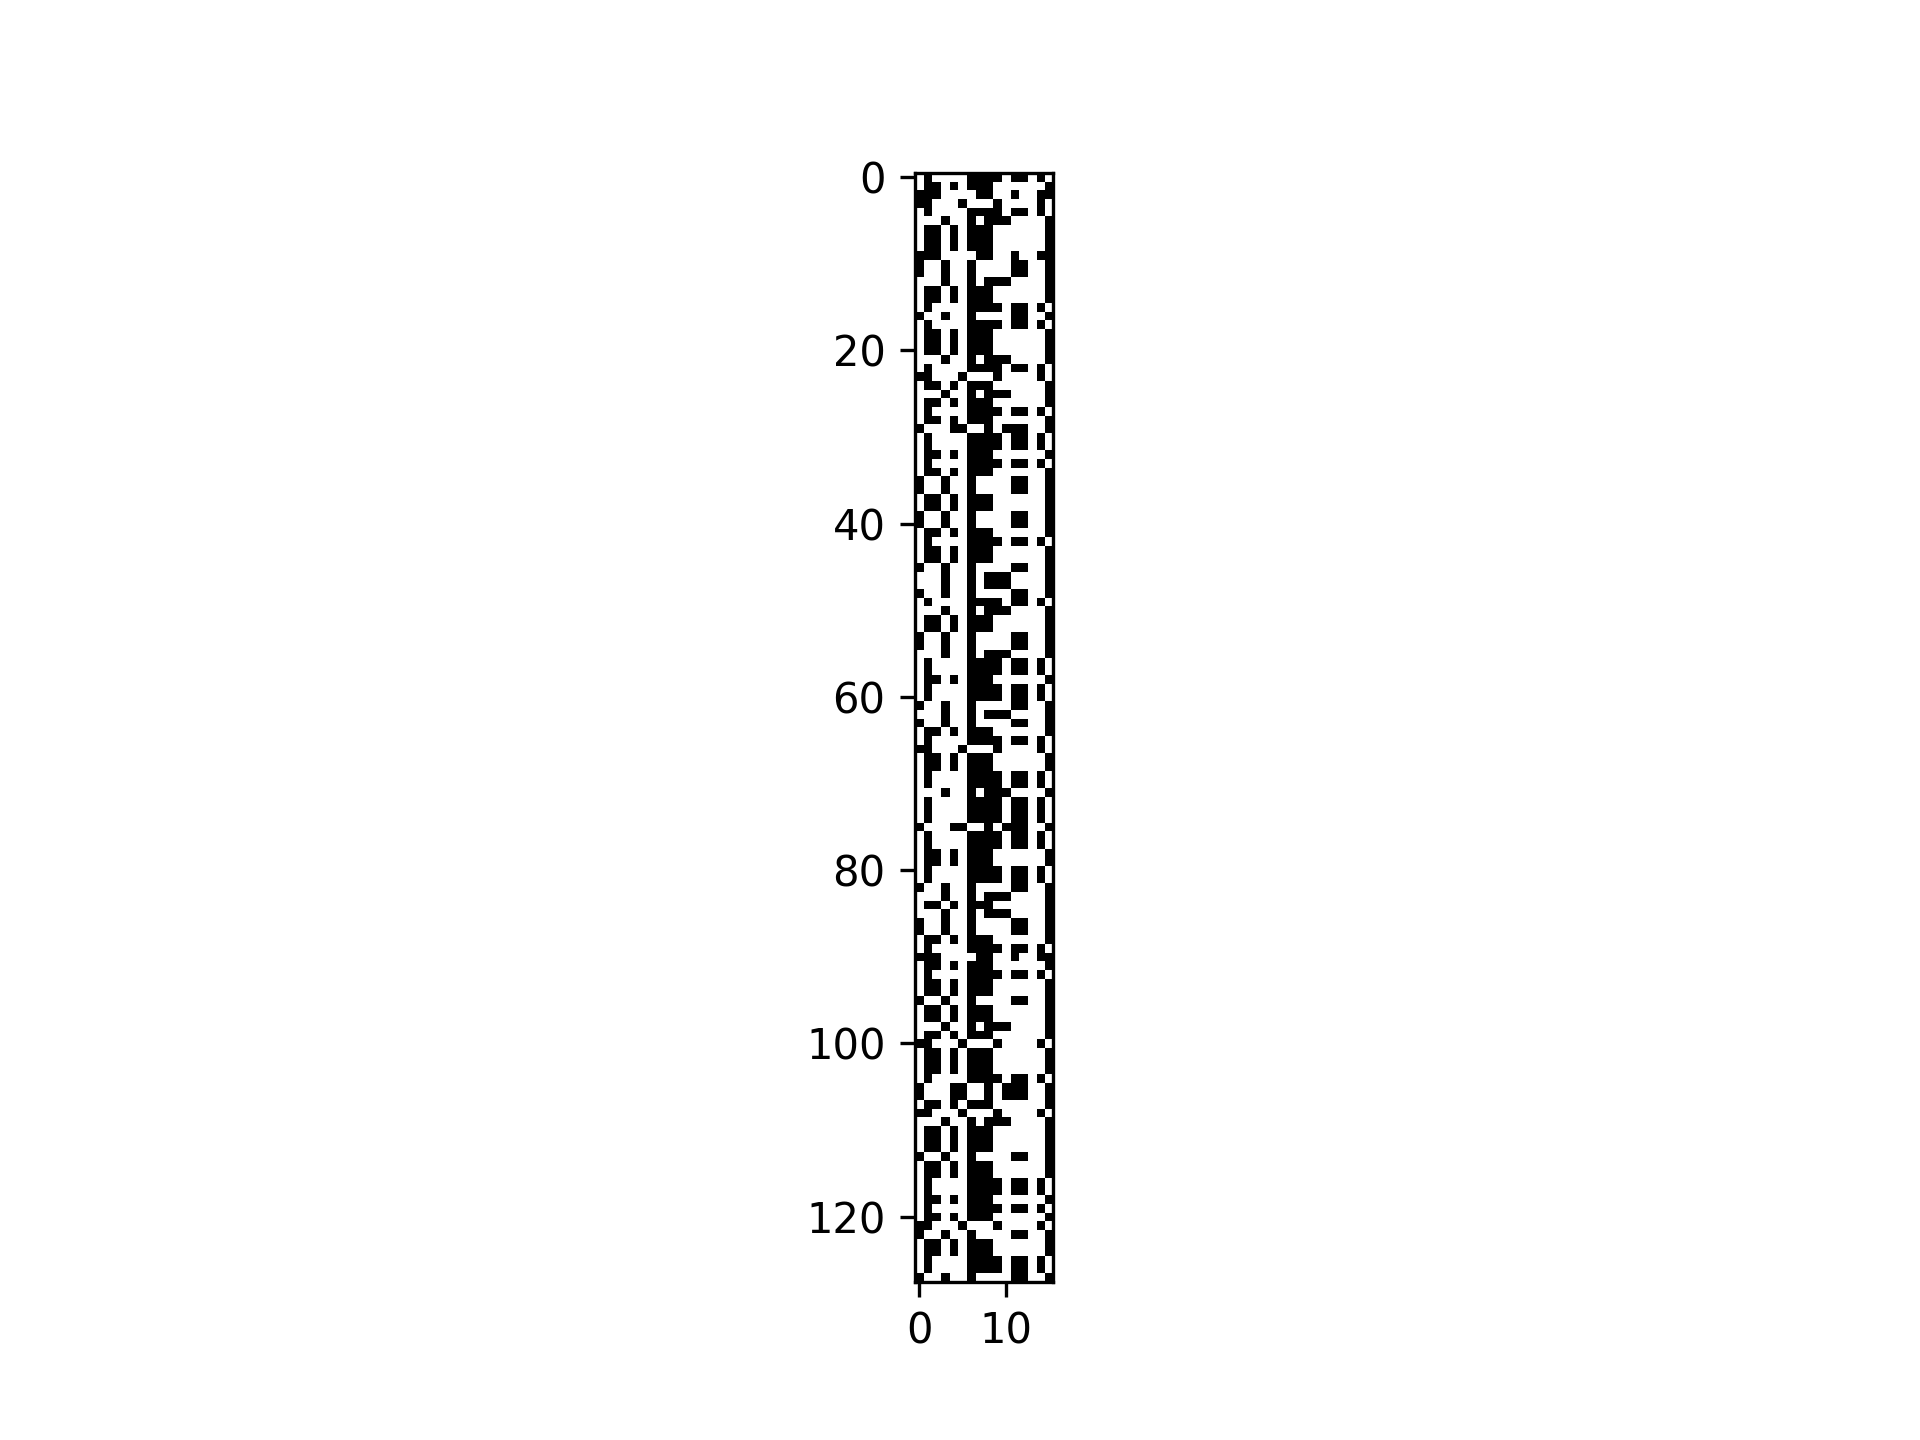
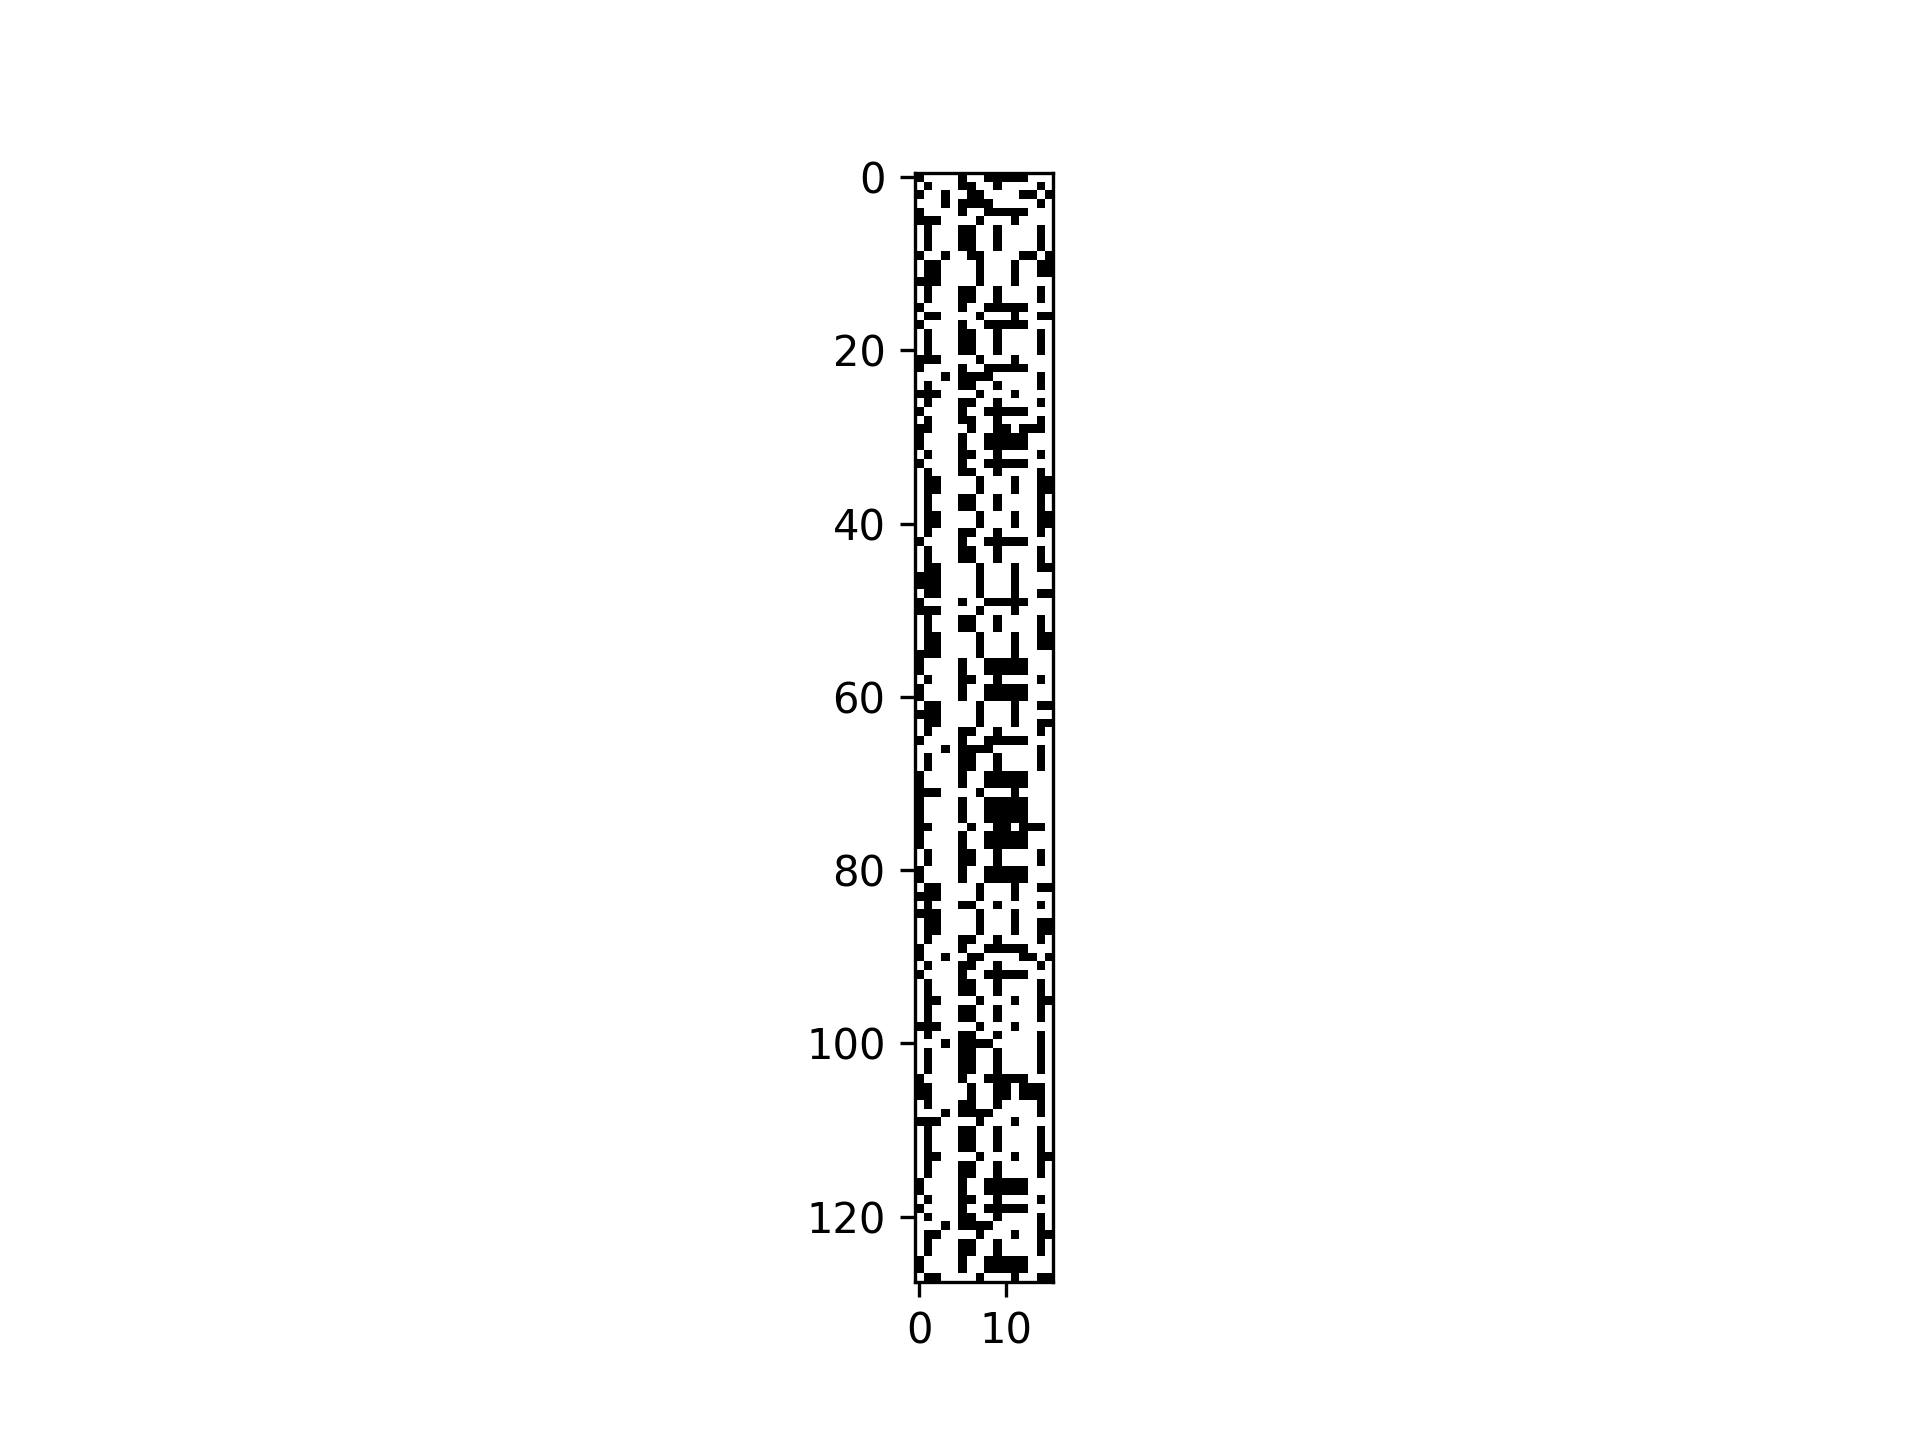
binary data analysis script

Changed region(s): [[0.4688, 0.125, 0.5625, 0.9062]]

diff --git a/binary_analysis.py b/binary_analysis.py
@@ -1,0 +1,140 @@
+'''
+Usage:
+Example python binary_analysis.py --filepath [Binary File Path] \
+--savepath [Saved Image Path] \
+--table_idx [The table index of embedding vectors] \
+--iteration [The iteration of embedding vectors] \
+--error_bound [The relative error bound] \
+--shape [(batch_size, emb_len)]
+'''
+
+import numpy as np
+import matplotlib.pyplot as plt
+import os
+import sys
+import argparse
+
+parser = argparse.ArgumentParser()
+parser.add_argument("--filepath", type=str, help="the path of binary file")
+parser.add_argument("--savepath", type=str, help="the path of saved figures")
+parser.add_argument("--table_idx", type=int, help="the index of embedding table")
+parser.add_argument("--iteration", type=int, help="the number of iteration")
+parser.add_argument("--error_bound", type=float, help="the error bound for pre-quantization and compression")
+parser.add_argument("--shape", type=int, nargs=2, help="the shape of the embedding vectors, for example (batch_size, emb_len)")
+parser.add_argument("--print_frequency", action="store_true", default=False, help="Print top20 values after quantization")
+
+# Read the binary file as a numpy array
+def read_binary_file(filename, data_type):
+    return np.fromfile(filename, dtype=data_type)
+
+def int8_to_bits(value):
+    """Convert an int8 to its 8-bit representation."""
+    return [(value >> i) & 1 for i in range(7, -1, -1)]
+
+def draw_bitmaps(data, table, iter):
+    """
+    Draw 16 figures from a (128, 16) numpy array.
+    Each figure is of shape (128, 8) representing the bit values.
+    """
+    rows, cols = data.shape
+    
+    for col in range(cols):
+        bitmaps = np.zeros((rows, 8), dtype=int)
+        for row in range(rows):
+            bitmaps[row, :] = int8_to_bits(data[row, col])
+
+        plt.figure()
+        plt.imshow(bitmaps, cmap='gray', aspect='auto',interpolation='none')
+        plt.colorbar()
+        plt.title(f"Bit Representation for Column {col} table: {table} iter: {iter}")
+        plt.xlabel("Bit Index")
+        plt.ylabel("Row")
+        plt.show()
+        plt.savefig(f"bit_table_{table}_iter_{iter}_{col}.png")
+        plt.cla()
+
+def quantization(original_arr, eb):
+    eb = (original_arr.max() - original_arr.min()) * eb
+    quantization_arr = np.round(original_arr* (1/(eb*2))).astype(np.int8)
+    #quantization_arr.tofile(filename)
+    return quantization_arr
+
+# Draw histogram
+def draw_histogram(data, table, iter):
+    plt.hist(data, bins=128, range=(-64,63), facecolor='blue', alpha=0.7)
+    plt.title(f"Histogram_table_{table}_iter_{iter}")
+    plt.xlabel("Value")
+    plt.ylabel("Frequency")
+    plt.show()
+    plt.savefig(f"hist_table_{table}_iter_{iter}.png")
+    plt.cla()
+
+def draw_heatmap(data, table, iter):
+    plt.imshow(data, cmap='hot', interpolation='nearest')
+    plt.colorbar()
+    plt.title(f"Heatmap table_{table}_iter_{iter}")
+    plt.show()
+    plt.savefig(f"heat_table_{table}_iter_{iter}.png")
+    plt.cla()
+
+def draw_values_with_grid(data, table, iter):
+    """
+    Draw the values of the data array in a grid.
+    """
+    fig, ax = plt.subplots()
+    ax.set_xticks(np.arange(data.shape[1]+1)-.5, minor=True)
+    ax.set_yticks(np.arange(data.shape[0]+1)-.5, minor=True)
+    
+    # Display grid
+    ax.grid(which="minor", color="black", linestyle='-', linewidth=2)
+    ax.tick_params(which="minor", size=0)
+
+    # Remove the major tick labels
+    ax.set_xticks([])
+    ax.set_yticks([])
+
+    # Display data values
+    for i in range(data.shape[0]):
+        for j in range(data.shape[1]):
+            ax.text(j, i, str(data[i, j]), ha='center', va='center', color='black')
+
+    plt.savefig(f"values_table_{table}_iter_{iter}.png")
+    plt.cla()
+
+# Print the top n most frequent integers without using Counter
+def print_top_frequent(data, n=20):
+    value_counts = {}
+    for val in data:
+        if val in value_counts:
+            value_counts[val] += 1
+        else:
+            value_counts[val] = 1
+            
+    most_common = sorted(value_counts.items(), key=lambda x: x[1], reverse=True)[:n]
+    
+    print(f"Top {n} most frequent integers:")
+    for val, freq in most_common:
+        print(f"Value: {val}, Frequency: {freq}")
+
+if __name__ == "__main__":
+    args = parser.parse_args()
+    filepath = args.filepath
+    savepath = args.savepath
+    table = args.table_idx
+    iter = args.iteration
+    batch_size, emb_len = args.shape
+    eb = args.error_bound
+    print(batch_size)
+    data = np.fromfile(filename, dtype=np.float32)
+    data = quantization(data, eb)
+    draw_histogram(data, table, iter)
+    subset = data[:128*emb_len]  # Select the first 128 rows
+    subset = subset.reshape(128,emb_len)
+    draw_bitmaps(subset, table, iter)
+    draw_heatmap(subset, table, iter)
+    subset = data[:8*emb_len]
+    subset = subset.reshape(8,emb_len)
+    draw_values_with_grid(subset, table, iter)
+    if args.print_freq:
+        print_top_frequent(data, 20)
+

diff --git a/2d_bit_heatmap.py b/2d_bit_heatmap.py
@@ -4,13 +4,25 @@ import numpy as np
 import os
 
 # quantization
+def quantization(original_np_array, r_error_bound):
+    a_error_bound = (original_np_array.max() - original_np_array.min()) * r_error_bound
+    print("absolute error bound is, ", a_error_bound)
+    quantized_array = np.empty(original_np_array.shape)
+    for idx, val in np.ndenumerate(original_np_array):
+        quantized_array[idx] = round(val/(2*a_error_bound))
+        #print(val/2*a_error_bound)
+    return quantized_array.astype(np.int16) # maybe int32?
+
 def float16ToBinary(f):
     i16 = np.float16(f).view('H')
     return format(i16, '016b')
 
+def int16ToBinary(i):
+    return format(i & 0xFFFF, '016b')
+
 def save_image(bitmaps, fileName, index):
     plt.imshow(bitmaps[index], cmap="gray")
-    figure_name = fileName[31:-4] + "_bit_" + str(index)
+    figure_name = fileName[:-4] + "_bit_" + str(index)
     plt.show()
     plt.savefig(figure_name, dpi=300)
 
@@ -19,13 +31,14 @@ def trans2heatmap(fileName, M, N):
         numpy_data = np.fromfile(file, dtype=np.float16)
     
     numpy_data = numpy_data.reshape((M, N))
-    
+    numpy_data = quantization(numpy_data, 0.01)
     bitmaps = []
     for bit_index in range(16):
         bit_map = np.zeros((M, N), dtype=int)
         for i in range(M):
             for j in range(N):
-                binary_str = float16ToBinary(numpy_data[i, j])
+                #binary_str = float16ToBinary(numpy_data[i, j])
+                binary_str = int16ToBinary(numpy_data[i,j])
                 bit_map[i, j] = int(binary_str[bit_index])
         bitmaps.append(bit_map)
     

diff --git a/2d_heatmap_bin.py b/2d_heatmap_bin.py
@@ -19,6 +19,14 @@ def save_image(df, fileName, index):
     figure_name = fileName[31:-4] + "_binary_" + str(index)
     plt.savefig(figure_name, dpi=300)
 
+def quantization(original_np_array, r_error_bound):
+    a_error_bound = (original_np_array.max() - original_np_array.min()) * r_error_bound
+    quantized_array = np.empty(original_np_array.shape)
+    for idx, val in np.ndenumerate(original_np_array):
+        quantized_array[ind] = round(val/2*a_error_bound)
+        print(val/2*a_error_bound)
+    return quantized_array.astype(np.int16) # maybe int32?
+
 def trans2heatmap(fileName, n):
     # fileName = "/data/lab/tao/boyuan/1800x3600/SOLIN_1_1800_3600.f32"
     # n = 1800 * 3600

diff --git a/read_delta.py b/read_delta.py
@@ -14,6 +14,13 @@ def read_bin_file(root_dir, device, table_order, batch):
     data = np.fromfile(filepath, dtype = np.float16)
     return data
 
+def quantization(original_np_array, r_error_bound):
+    a_error_bound = (original_np_array.max() - original_np_array.min()) * r_error_bound
+    quantized_array = np.empty(original_np_array.shape)
+    for idx, val in np.ndenumerate(original_np_array):
+        quantized_array[ind] = round(round(val/2*a_error_bound) * (2*a_error_bound))
+    return quantized_array.astype(np.int16) # maybe int32?
+
 def calculate_l2_norm(data):
     norm = np.linalg.norm(data)
     return norm
